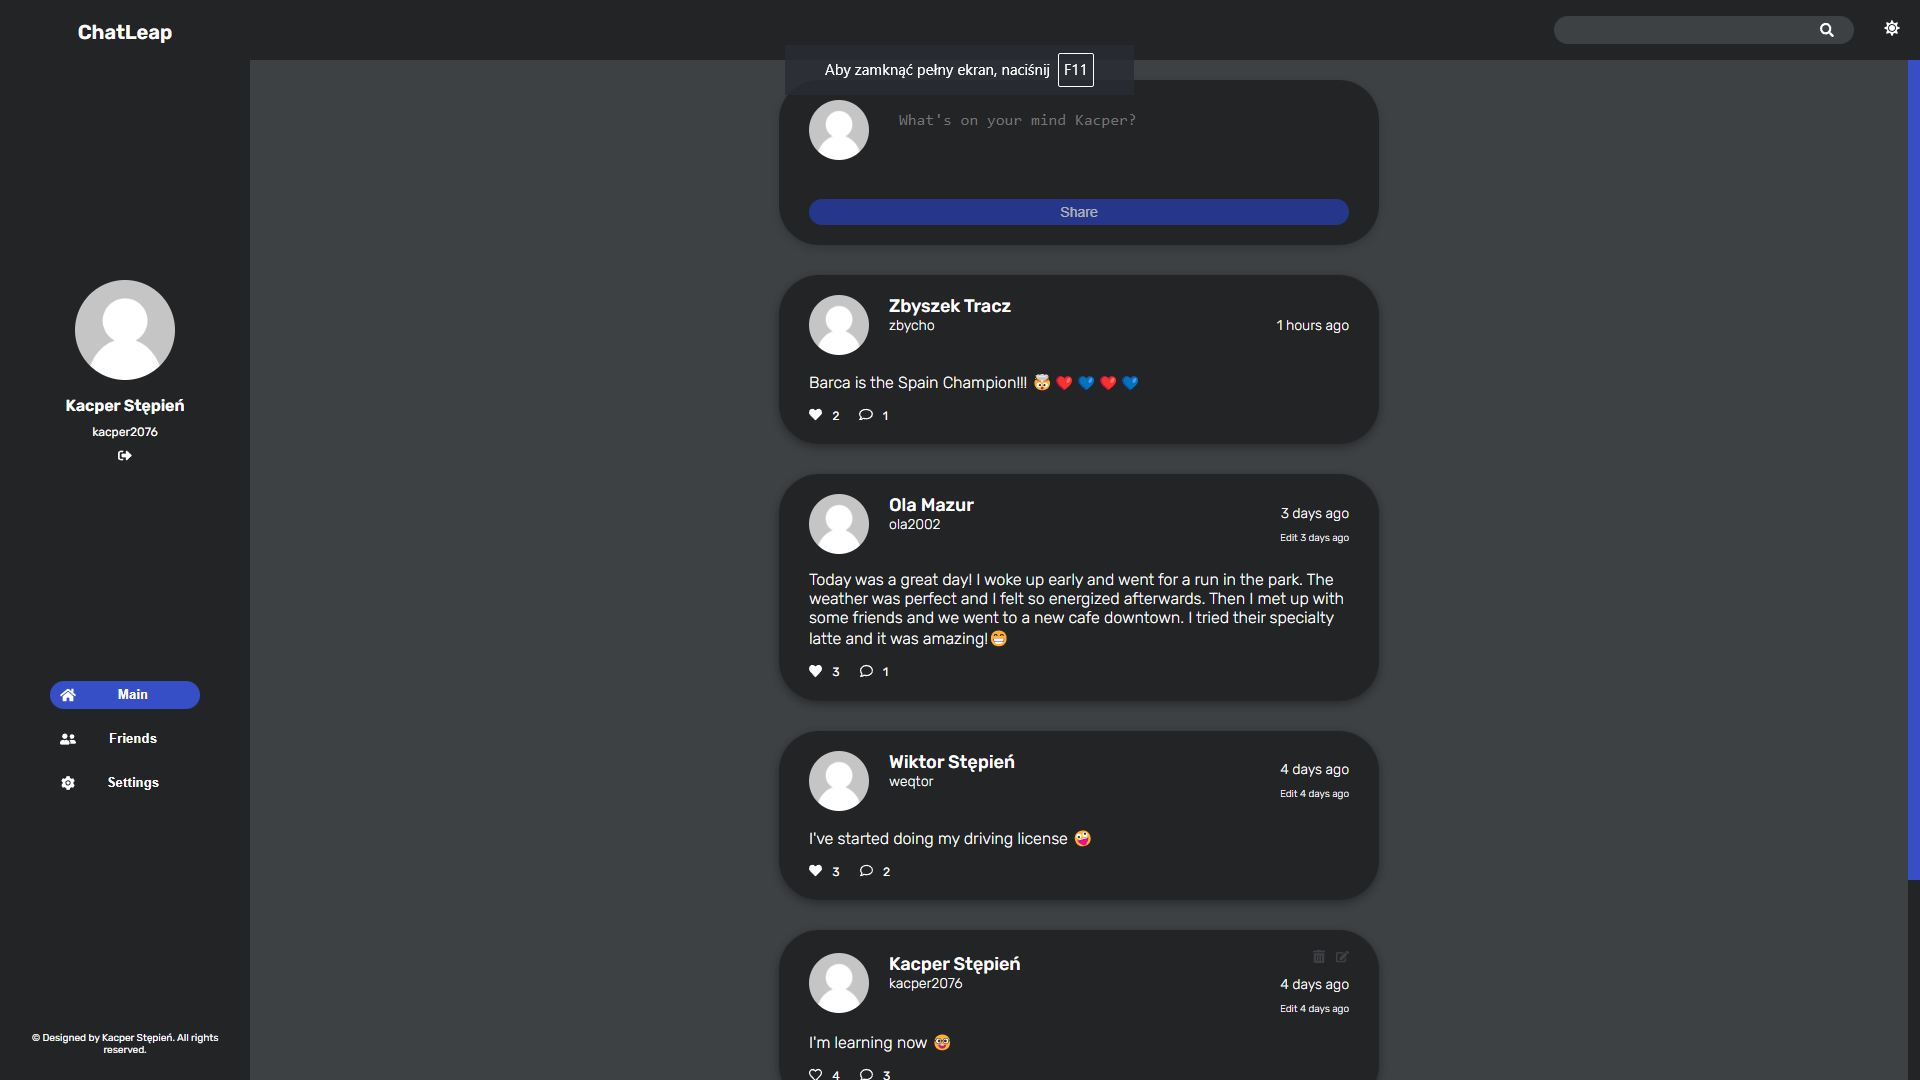
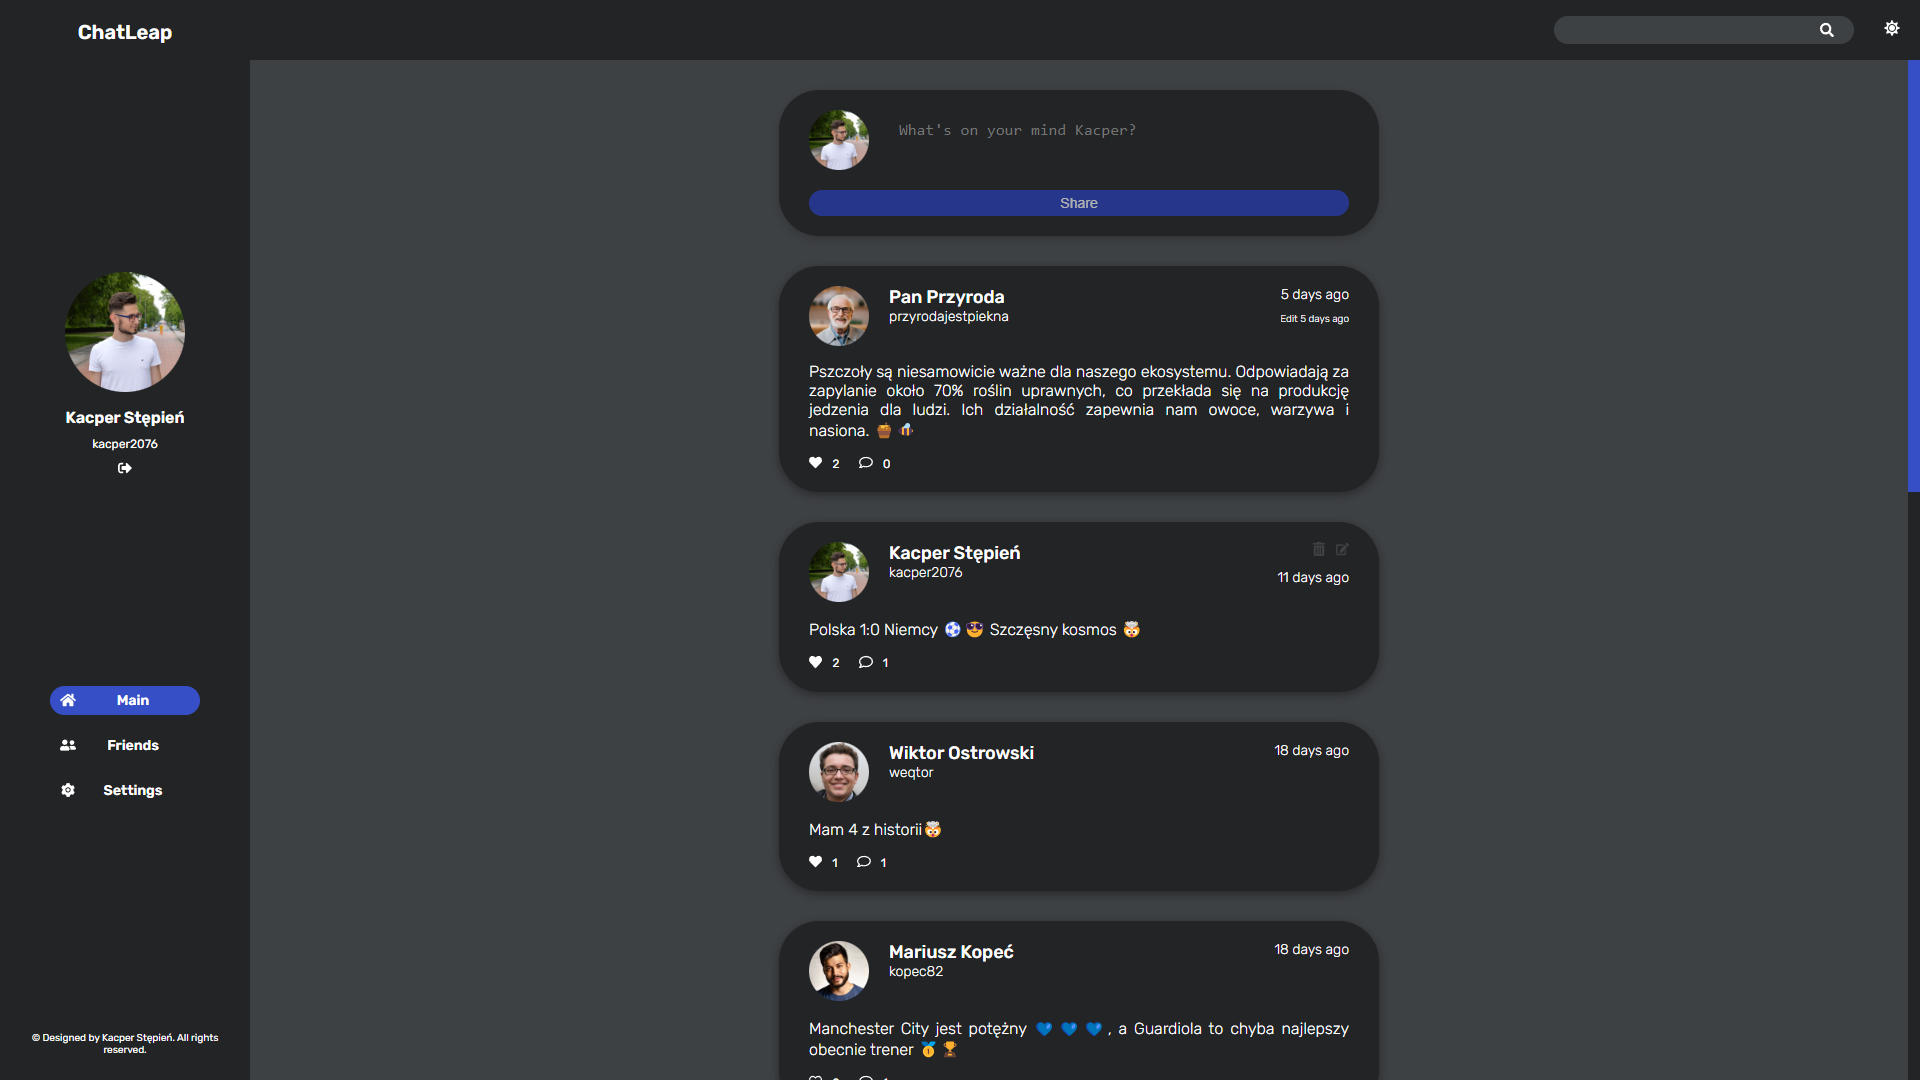
improve menu aside on mobile screen

diff --git a/client/src/components/Menu.tsx b/client/src/components/Menu.tsx
@@ -7,11 +7,19 @@ import { NavLink } from "react-router-dom";
 type Props = {
   mode: string;
   accent: string;
+  setShowAside?: (show: boolean) => void;
 };
 
-const Menu: React.FC<Props> = ({ mode, accent }) => {
+const Menu: React.FC<Props> = ({ mode, accent, setShowAside }) => {
   const theme: string = mode + accent;
   const styleClasses: string[] = [classes.menu, classes[theme]];
+
+  const closeAside = () => {
+    if (setShowAside) {
+      setShowAside(false);
+    }
+  };
+
   return (
     <nav className={styleClasses.join(" ")}>
       <NavLink
@@ -19,6 +27,7 @@ const Menu: React.FC<Props> = ({ mode, accent }) => {
         className={({ isActive }) =>
           isActive ? `${classes.link} ${classes.active}` : classes.link
         }
+        onClick={closeAside}
       >
         <FaHome className={classes.icon} />
         Main
@@ -29,6 +38,7 @@ const Menu: React.FC<Props> = ({ mode, accent }) => {
         className={({ isActive }) =>
           isActive ? `${classes.link} ${classes.active}` : classes.link
         }
+        onClick={closeAside}
       >
         <FaUserFriends className={classes.icon} />
         Friends
@@ -39,6 +49,7 @@ const Menu: React.FC<Props> = ({ mode, accent }) => {
         className={({ isActive }) =>
           isActive ? `${classes.link} ${classes.active}` : classes.link
         }
+        onClick={closeAside}
       >
         <AiFillSetting className={classes.icon} />
         Settings

diff --git a/client/src/components/User.tsx b/client/src/components/User.tsx
@@ -1,7 +1,8 @@
 import { useContext } from "react";
-import { AuthContext } from "../context/AuthContext";
-import { FaSignOutAlt } from "react-icons/fa";
 import { useNavigate } from "react-router-dom";
+import { FaSignOutAlt } from "react-icons/fa";
+
+import { AuthContext } from "../context/AuthContext";
 import LocalStorage from "../utils/LocalStorage";
 
 import classes from "./User.module.scss";
@@ -30,7 +31,7 @@ const User: React.FC = () => {
         src={
           photo ? process.env.REACT_APP_PHOTOS + `/users/${photo}` : "/user.jpg"
         }
-        alt="User"
+        alt="Logged in user"
         onClick={openUserPage}
       />
       <p className={classes.userName} onClick={openUserPage}>
@@ -39,7 +40,11 @@ const User: React.FC = () => {
       <p className={classes.userNick} onClick={openUserPage}>
         {userNick}
       </p>
-      <button aria-label="Logout button" onClick={logoutHandler}>
+      <button
+        className={classes.logoutBtn}
+        aria-label="Logout button"
+        onClick={logoutHandler}
+      >
         <FaSignOutAlt />
       </button>
     </div>

diff --git a/client/src/components/Post.tsx b/client/src/components/Post.tsx
@@ -216,7 +216,6 @@ const Post: React.FC<PostProps> = ({
           <div className={classes.postUser}>
             <img
               className={classes.postUserImage}
-              // src="/user.jpg"
               src={
                 post.author.photo
                   ? process.env.REACT_APP_PHOTOS + `/users/${post.author.photo}`
@@ -313,11 +312,11 @@ const Post: React.FC<PostProps> = ({
               <p>{postComments.length}</p>
             </div>
           </div>
-          {/* <div className={classes.postFooterHashtags}>
-          {hastags.map((hashtag) => (
-            <p>{hashtag}</p>
-          ))}
-        </div> */}
+          <div className={classes.postFooterHashtags}>
+            {/* {hashtags.map((hashtag) => (
+              <p>{hashtag}</p>
+            ))} */}
+          </div>
         </div>
       </div>
       {commentsOpen && (

diff --git a/client/src/components/User.module.scss b/client/src/components/User.module.scss
@@ -9,8 +9,8 @@
 }
 
 img {
-  max-width: 10rem;
-  max-height: 10rem;
+  max-width: 12rem;
+  max-height: 12rem;
   margin-bottom: 1.6rem;
   border-radius: 50%;
   transition: all 0.2s ease-in-out;
@@ -35,6 +35,7 @@ img {
   cursor: pointer;
 }
 
+.logoutBtn,
 button {
   color: $color-white;
   background-color: transparent;
@@ -43,6 +44,25 @@ button {
   transition: all 0.2s ease-in-out;
 
   &:hover {
-    transform: translateX(5px) scale(1.1);
+    transform: scale(1.3);
+  }
+}
+
+.logoutBtn {
+  &:hover,
+  &:active {
+    &::after {
+      content: "Logout";
+      display: block;
+      position: absolute;
+      top: 50%;
+      left: 115%;
+      transform: translateY(-50%);
+      padding: 0.5rem 1rem;
+      border-radius: $border-radius;
+      background-color: $color-white;
+      font-size: 1rem;
+      color: $color-grey-dark-3;
+    }
   }
 }

diff --git a/client/src/components/Posts.tsx b/client/src/components/Posts.tsx
@@ -16,14 +16,17 @@ import { LogoutUser } from "../utils/LogoutUser";
 import classes from "./Posts.module.scss";
 
 const Posts: React.FC = () => {
+  const { token, setLoggedIn } = useContext(AuthContext);
   const { setIsLoading } = useContext(LoadingSpinnerContext);
+
   const [page, setPage] = useState(1);
   const [allPostsDownloaded, setAllPostsDownloaded] = useState(false);
-  const { mode, accent } = useContext(ThemeContext);
-  const theme = mode + accent;
-  const { token, setLoggedIn } = useContext(AuthContext);
+
   const [downloadingPosts, setDownloadingPosts] = useState(false);
   const [downloadingMorePosts, setDownloadingMorePosts] = useState(false);
+
+  const { mode, accent } = useContext(ThemeContext);
+  const theme = mode + accent;
 
   const styleClasses = [classes[theme], classes.posts];
 

diff --git a/client/src/components/UserInfo.tsx b/client/src/components/UserInfo.tsx
@@ -1,15 +1,13 @@
 import UserModel from "./../models/Author";
-import PostModel from "./../models/Post";
 
 import classes from "./UserInfo.module.scss";
 
 type Props = {
   user: UserModel | undefined;
-  posts: PostModel[];
   theme: string;
 };
 
-const UserInfo: React.FC<Props> = ({ user, posts, theme }) => {
+const UserInfo: React.FC<Props> = ({ user, theme }) => {
   const styleClasses = [classes[theme], classes.container];
   let userFullName = "";
   if (user) userFullName = user.name + " " + user.surname;

diff --git a/client/src/components/Settings.tsx b/client/src/components/Settings.tsx
@@ -1,4 +1,5 @@
 import { useContext } from "react";
+
 import { ThemeContext } from "../context/ThemeContext";
 import LocalStorage from "../utils/LocalStorage";
 
@@ -6,6 +7,7 @@ import classes from "./Settings.module.scss";
 
 const Settings: React.FC = () => {
   const { mode, accent, setMode, setAccent } = useContext(ThemeContext);
+
   const styleClasses: string[] = [classes[mode], classes.page];
 
   const darkBtnClasses: string[] = [classes.modeDarkBtn];

diff --git a/client/src/pages/User.tsx b/client/src/pages/User.tsx
@@ -137,7 +137,7 @@ const User: React.FC = () => {
     <div className={classes.page}>
       <SimpleNavbar mode={mode} />
       <div className={styleClasses.join(" ")}>
-        <UserInfo user={user} posts={posts} theme={theme} />
+        <UserInfo user={user} theme={theme} />
         {id === userID && (
           <AddUserPhoto
             token={token}

diff --git a/client/src/components/Sidebar.tsx b/client/src/components/Sidebar.tsx
@@ -32,7 +32,7 @@ const Sidebar: React.FC<Props> = ({ setShowAside }) => {
       </button>
       <Logo mode={"dark"} />
       <User />
-      <Menu mode={mode} accent={accent} />
+      <Menu mode={mode} accent={accent} setShowAside={setShowAside} />
       <Footer mode={"dark"} />
     </div>
   );

diff --git a/client/src/components/ThemeSwitcher.module.scss b/client/src/components/ThemeSwitcher.module.scss
@@ -1,7 +1,7 @@
 @import ".././sass/variables.scss";
 
 .themeButton {
-  font-size: 1.6rem;
+  font-size: 1.8rem;
   font-weight: bold;
   background-color: transparent;
   border: none;
@@ -17,6 +17,6 @@
   }
 
   &:hover {
-    transform: scale(1.2);
+    transform: scale(1.3);
   }
 }

diff --git a/client/src/components/ThemeSwitcher.tsx b/client/src/components/ThemeSwitcher.tsx
@@ -2,7 +2,6 @@ import { useContext } from "react";
 import { FaSun, FaMoon } from "react-icons/fa";
 
 import { ThemeContext } from "../context/ThemeContext";
-
 import LocalStorage from "../utils/LocalStorage";
 
 import classes from "./ThemeSwitcher.module.scss";

diff --git a/client/src/components/UserInfo.module.scss b/client/src/components/UserInfo.module.scss
@@ -12,13 +12,14 @@
 }
 
 .userPhoto {
-  width: 10rem;
-  height: 10rem;
+  width: 12rem;
+  height: 12rem;
 
   img {
     width: 100%;
     height: 100%;
     border-radius: 50%;
+    box-shadow: 2px 2px 20px rgba(0, 0, 0, 0.5);
   }
 }
 
